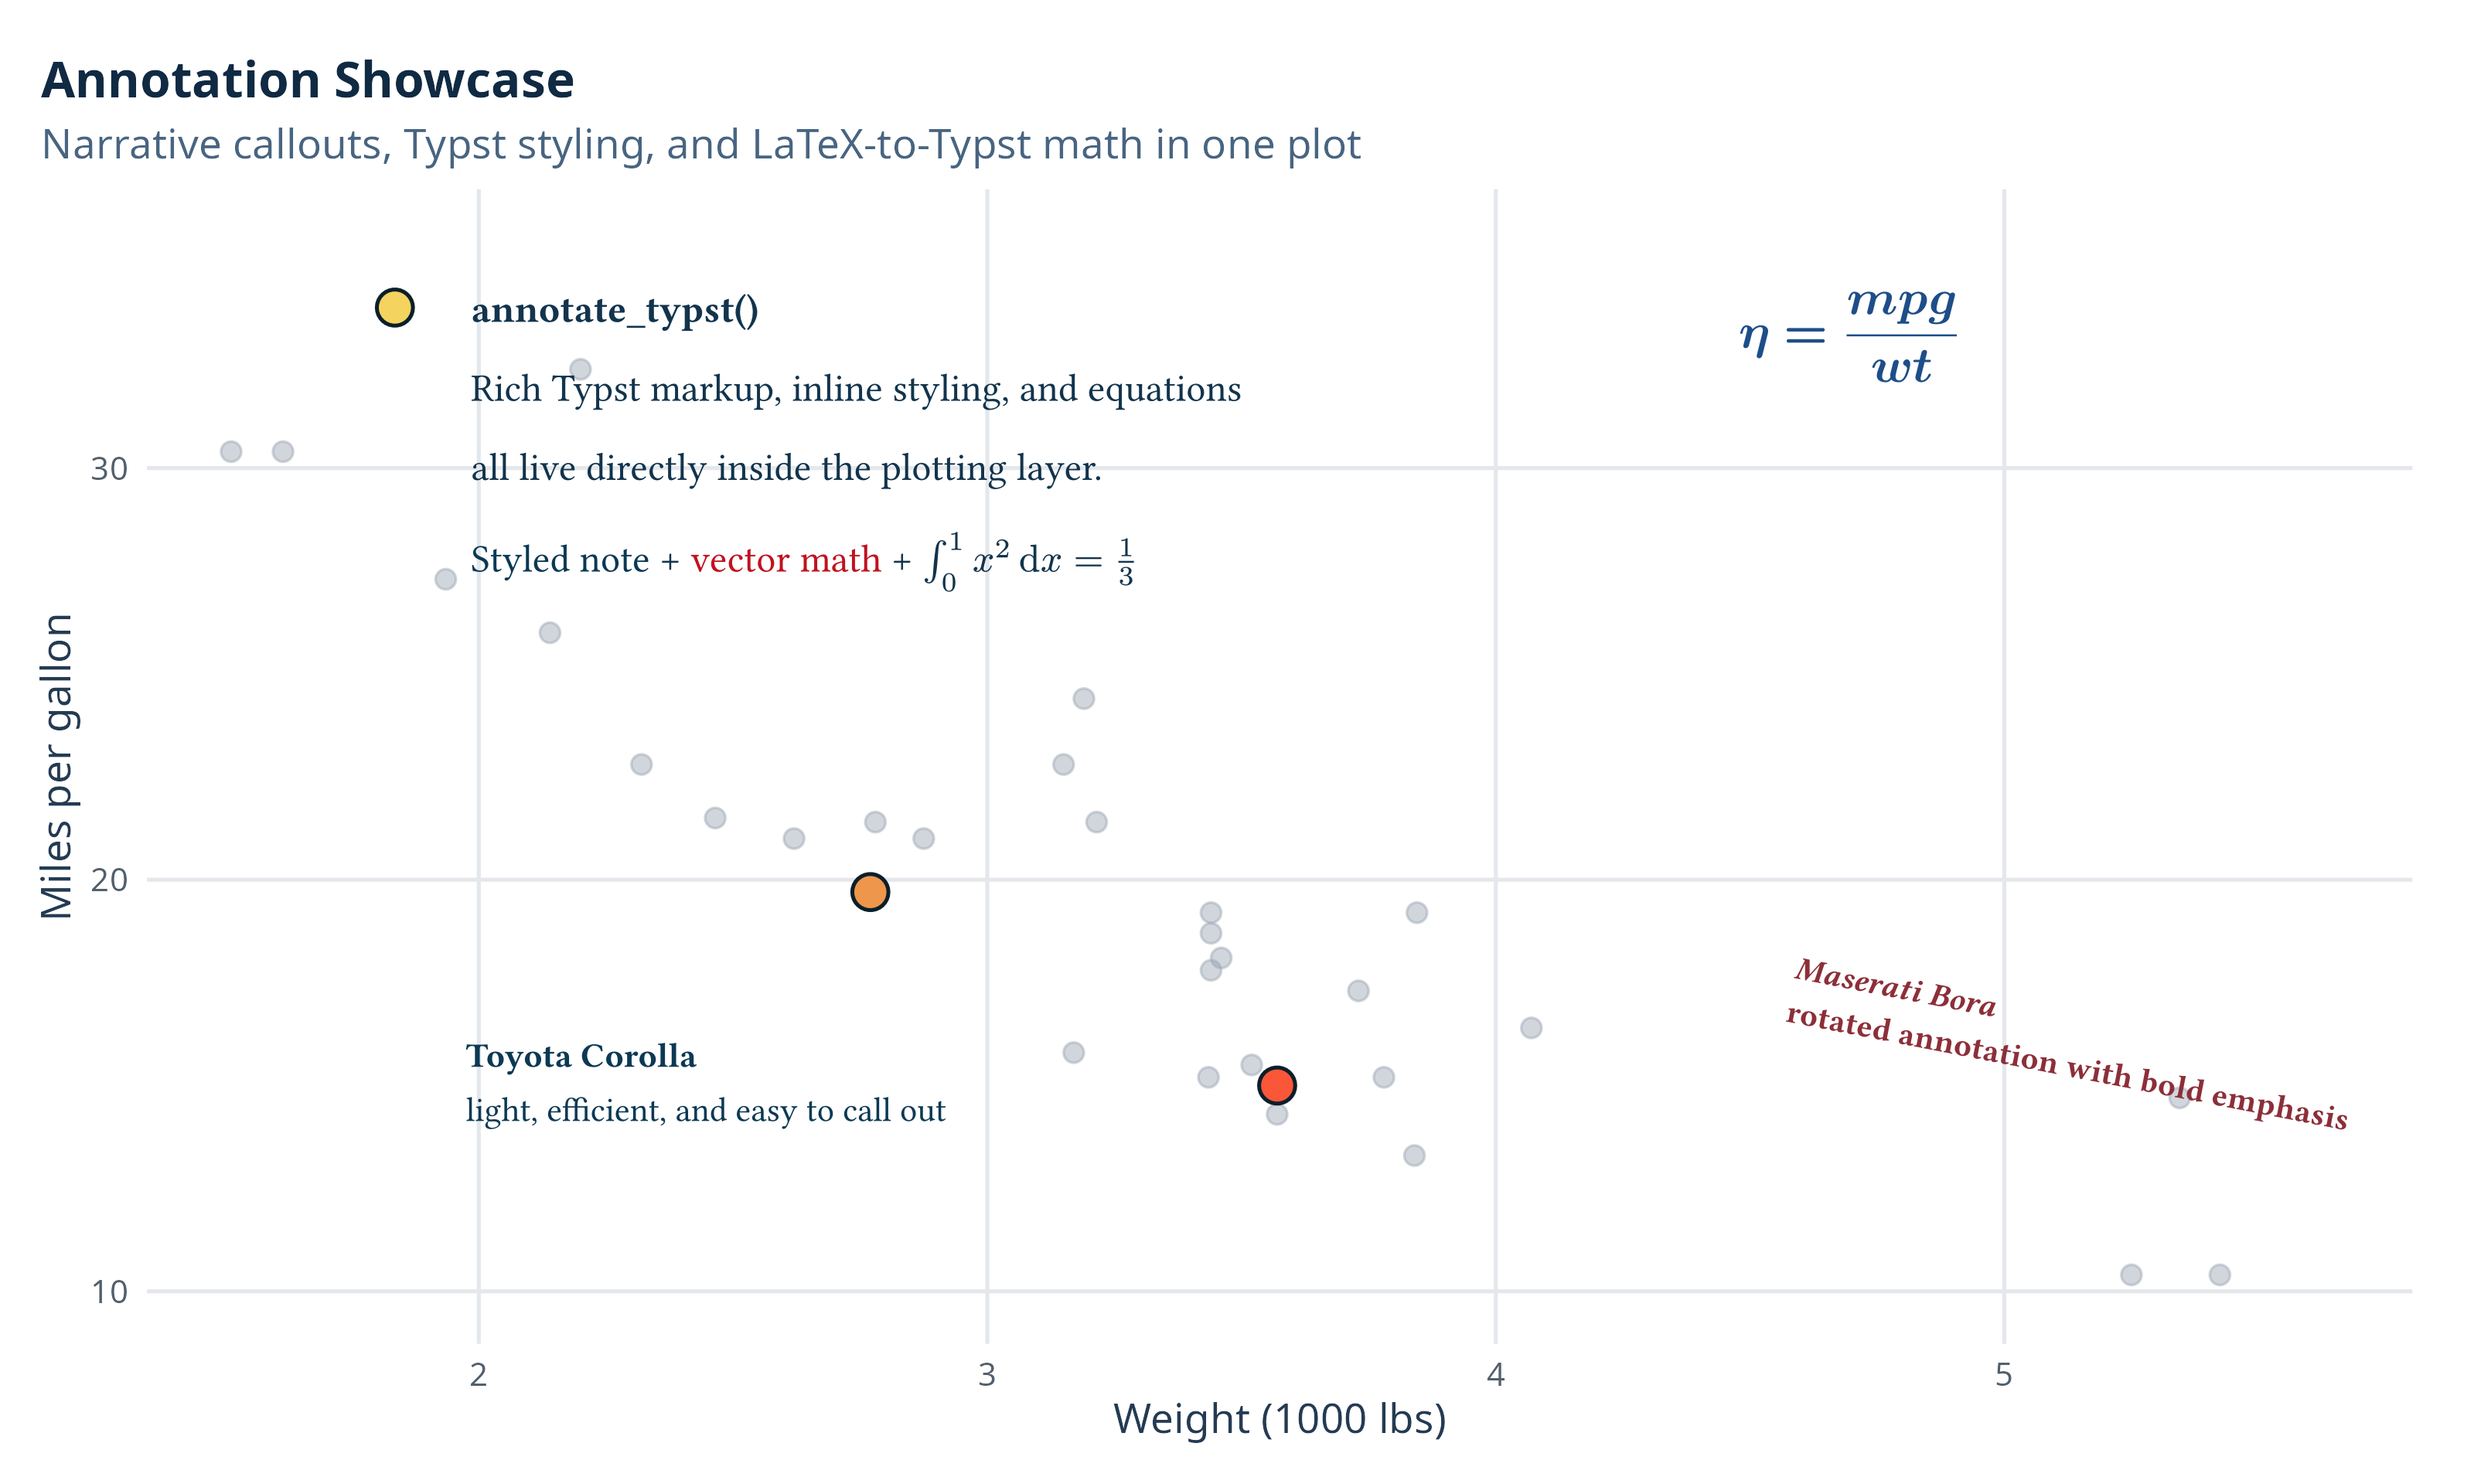
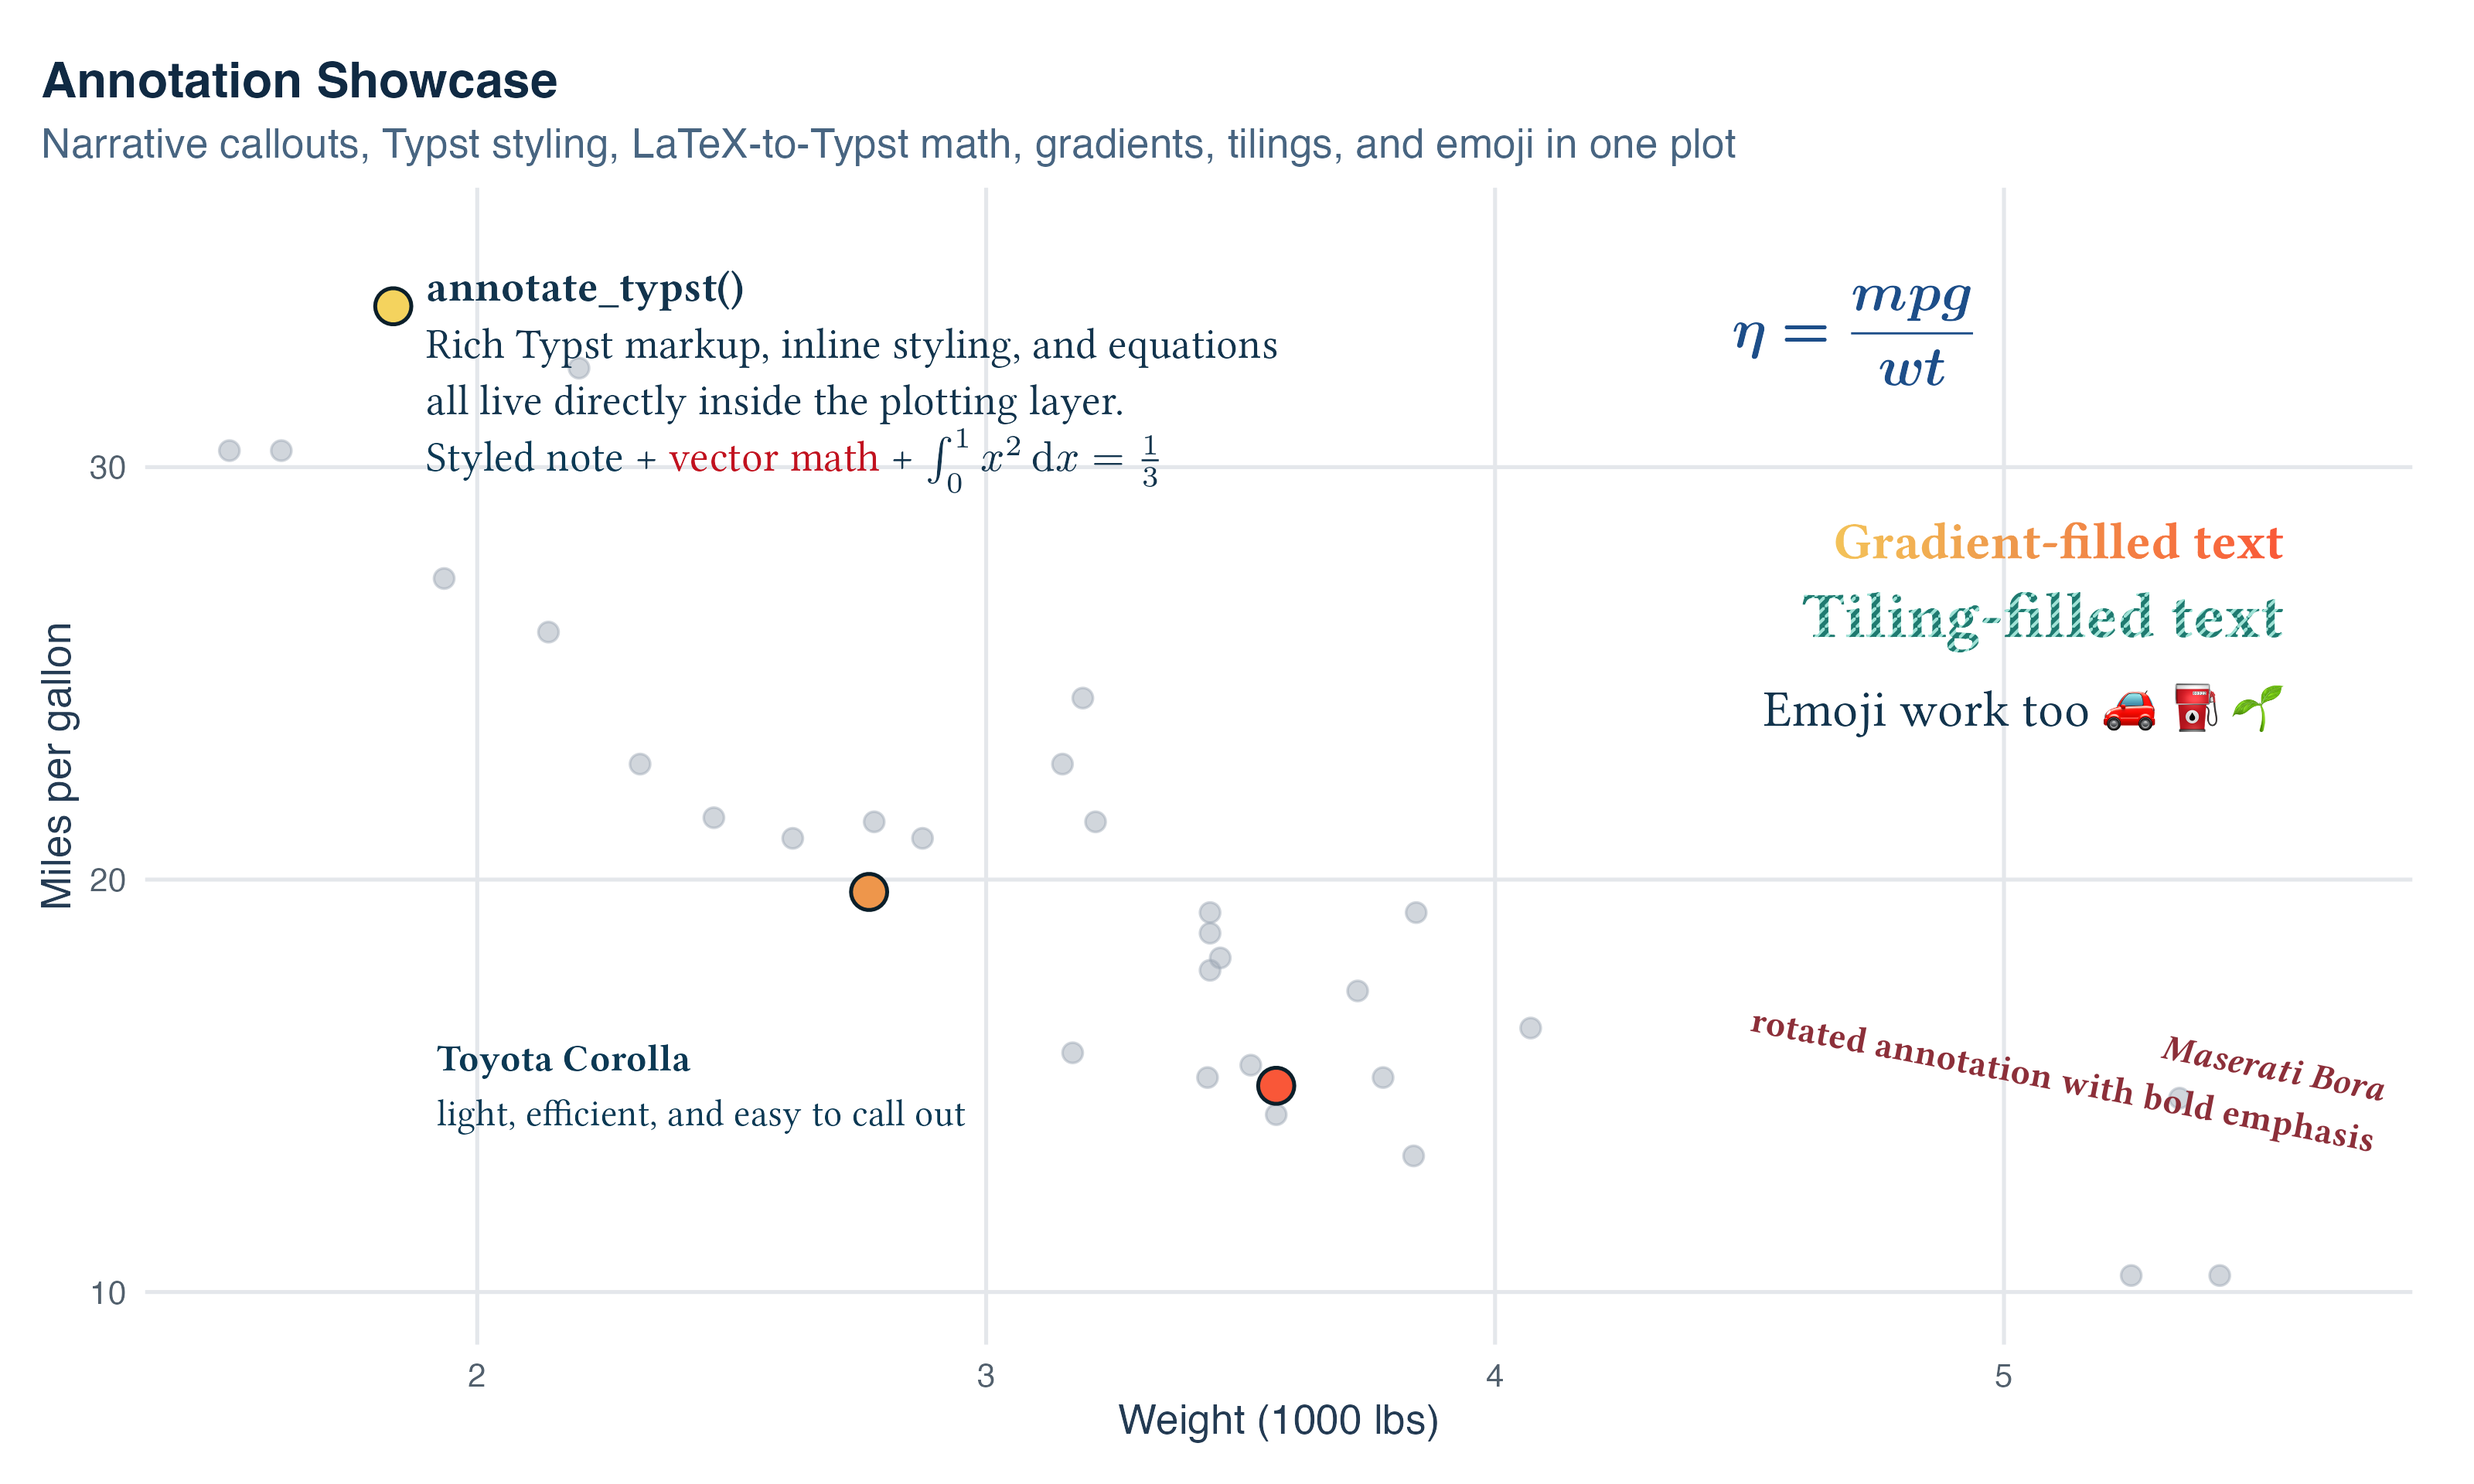
docs: update the README and the get-started article to the current package

diff --git a/README.md b/README.md
@@ -11,7 +11,7 @@ MIT](https://img.shields.io/badge/License-MIT-yellow.svg)](https://opensource.or
 DeepWiki](https://deepwiki.com/badge.svg)](https://deepwiki.com/Yousa-Mirage/ggtypst)
 [![r-universe
 version](https://yousa-mirage.r-universe.dev/ggtypst/badges/version)](https://yousa-mirage.r-universe.dev/ggtypst)
-[![extendr](https://img.shields.io/badge/extendr-%5E0.8.1-276DC2)](https://extendr.github.io/extendr/extendr_api/)
+[![extendr](https://img.shields.io/badge/extendr-%5E0.9.0-276DC2)](https://extendr.github.io/extendr/extendr_api/)
 
 </div>
 
@@ -23,6 +23,9 @@ plots through three public API families:
 - `annotate_*()` for one-off annotations
 - `geom_*()` for data-driven text layers
 - `element_*()` for Typst-rendered theme text
+
+The result is drawn with grid, just like the text `ggplot2` draws
+itself, so it fits the plot’s size and layout exactly.
 
 `ggtypst` supports both native Typst math and **LaTeX-style math**
 thanks to [MiTeX](https://github.com/mitex-rs/mitex). Just choose the
@@ -45,8 +48,13 @@ pipeline.
 - 🔁 Choose native Typst math or LaTeX-style math, depending on your
   preference
 - 🧩 Keep the familiar `ggplot2` layout system and theme semantics
+- ⚡ Draw fast: each label in a `geom_typst()` layer adds under 1ms to a
+  PNG
 
 ## Installation
+
+`ggtypst` requires R 4.3 or later. Regardless of how you install it, you
+don’t need a separate local Typst or LaTeX installation to use it.
 
 ### Install from pre-compile binary
 
@@ -61,7 +69,7 @@ install.packages("ggtypst", repos = "https://yousa-mirage.r-universe.dev")
 On **Ubuntu 24.04**, you should run:
 
 ``` r
-linux_binary_repo <- function(universe){
+linux_binary_repo <- function(universe) {
   sprintf(
     "https://%s.r-universe.dev/bin/linux/noble-%s/%s/",
     universe,
@@ -84,11 +92,9 @@ devtools::install_github("Yousa-Mirage/ggtypst")
 ```
 
 Because the GitHub installation builds the Typst backend in Rust, you
-need `rustc` and `cargo` on your system to compile it. Particularly on
-Windows, you must use the `x86_64-pc-windows-gnu` toolchain.
-
-Regardless of how you install `ggtypst`, you don’t need a separate local
-Typst or LaTeX installation to use it.
+need `rustc` (1.89 or later) and `cargo` on your system to compile it.
+Particularly on Windows, you must use the `x86_64-pc-windows-gnu`
+toolchain.
 
 ## Get Started
 
@@ -108,9 +114,13 @@ labels, and Typst-powered theme elements.
 
 `annotate_typst()`, `annotate_math_typst()`, and `annotate_math_mitex()`
 let you place rich notes, callouts, or equations at precise plot
-locations.
+locations. Anything Typst can draw works, including text filled with
+gradients or tilings and color emoji.
 
 <img src="man/figures/annotate-showcase.png" alt="Annotation showcase" />
+
+See the code for this plot in
+[annotate-showcase.R](inst/examples/annotate-showcase.R).
 
 ### Geom: Data-driven labels
 
@@ -120,6 +130,9 @@ row by row.
 
 <img src="man/figures/geom-showcase.png" alt="Geom showcase" />
 
+See the code for this plot in
+[geom-showcase.R](inst/examples/geom-showcase.R).
+
 ### Element: Render theme elements
 
 `element_typst()`, `element_math_typst()`, and `element_math_mitex()`
@@ -127,6 +140,9 @@ take over the themes and rendering of titles, axis labels, strips, and
 legends. You can even render a matrix as the title!
 
 <img src="man/figures/element-showcase.png" alt="Element showcase" />
+
+See the code for this plot in
+[element-showcase.R](inst/examples/element-showcase.R).
 
 ## Contributing
 
